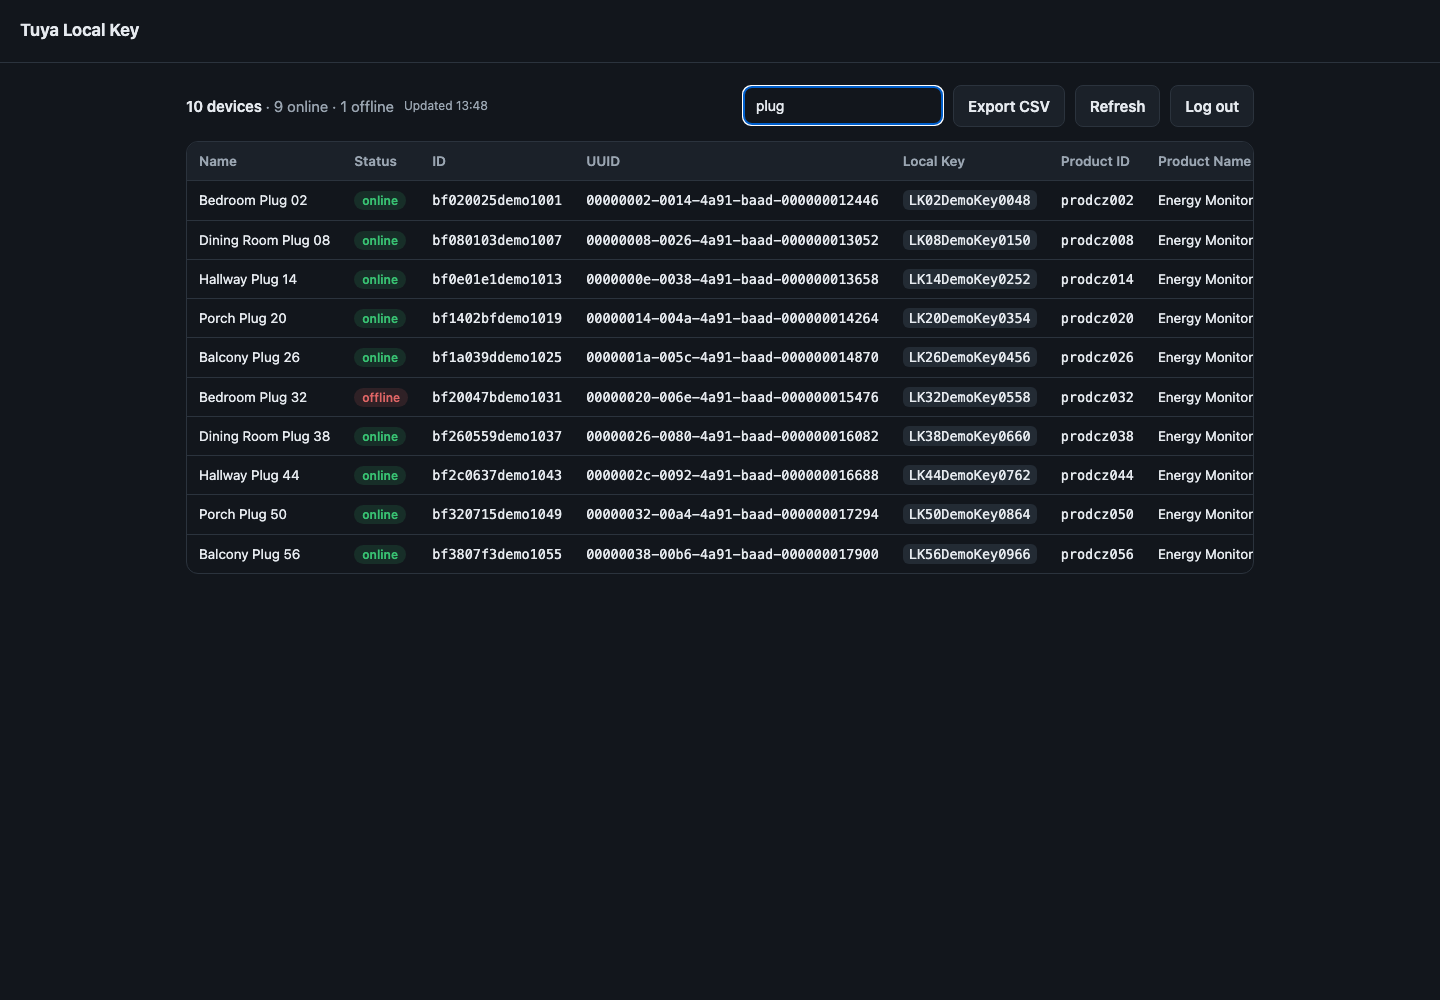
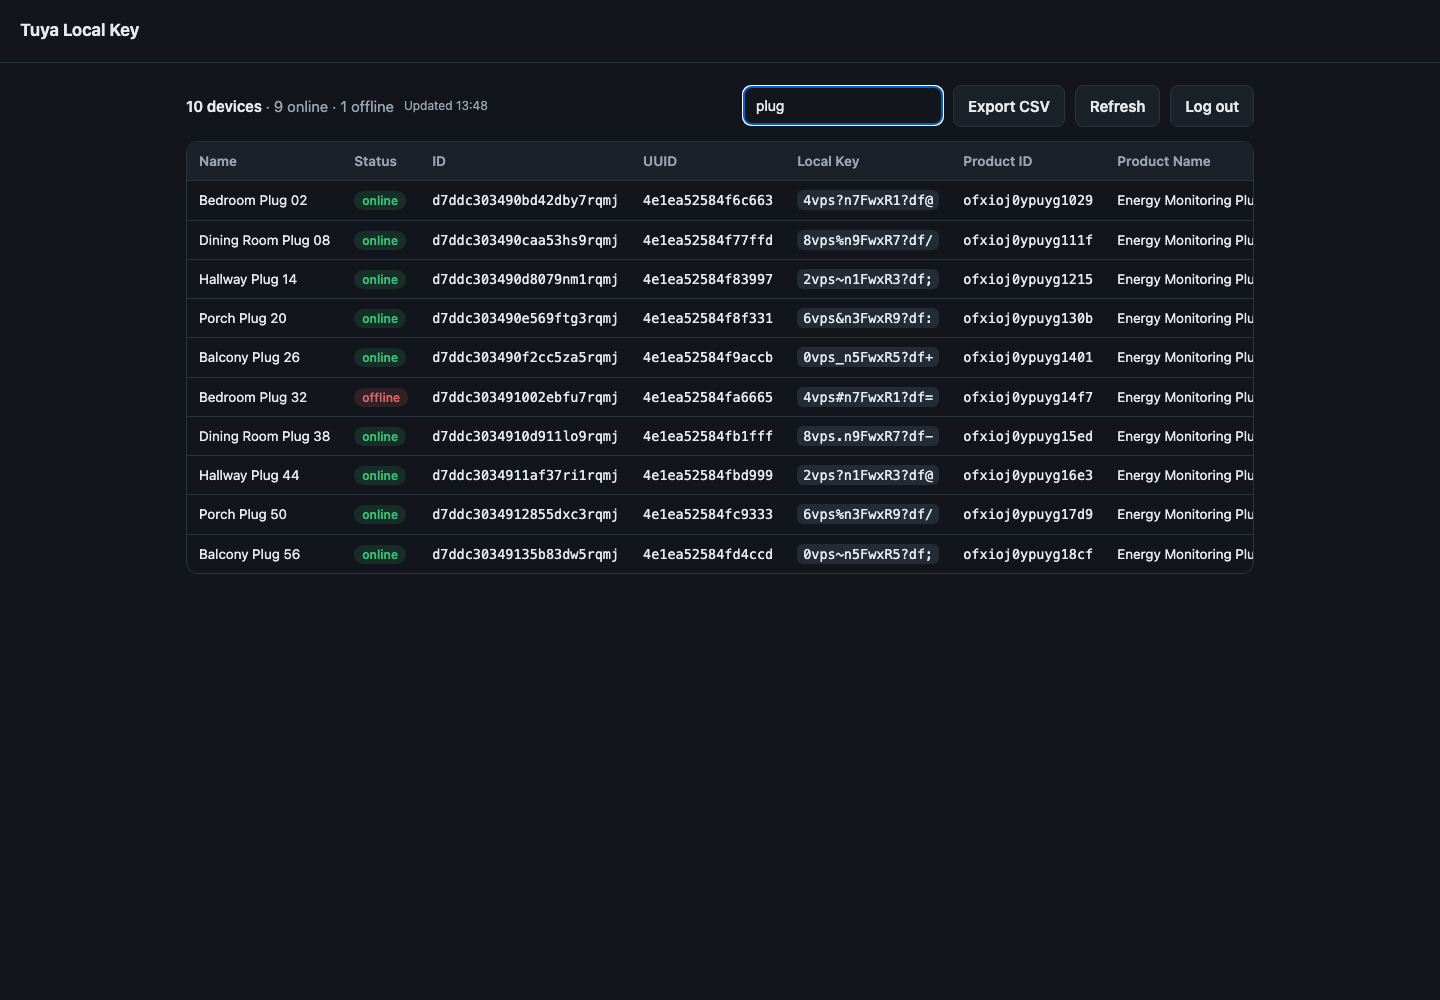
Update docs screenshots

Changed region(s): [[0.3125, 0.155, 0.875, 0.403], [0.3125, 0.434, 0.875, 0.558]]

diff --git a/README.md b/README.md
@@ -25,7 +25,7 @@ Use it as a self-hosted web UI with Docker or as a local CLI tool.
 
 ## Home Assistant App
 
-Home Assistant OS users can install Tuya Local Key as a Home Assistant app, formerly called an add-on.
+Home Assistant OS users can install Tuya Local Key as a Home Assistant app.
 
 1. Go to Settings > Apps > App Store.
 2. Open the menu in the top-right and choose Repositories.
